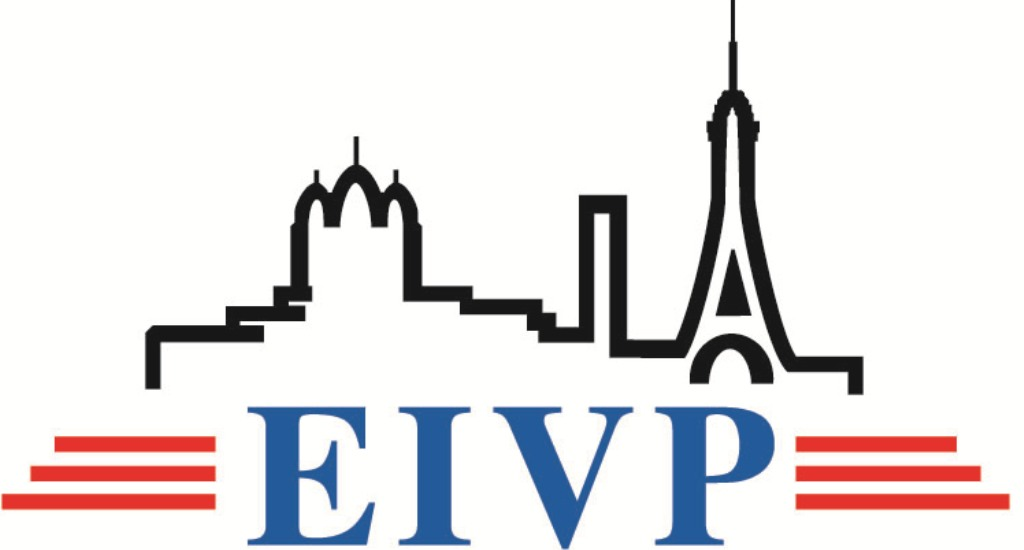
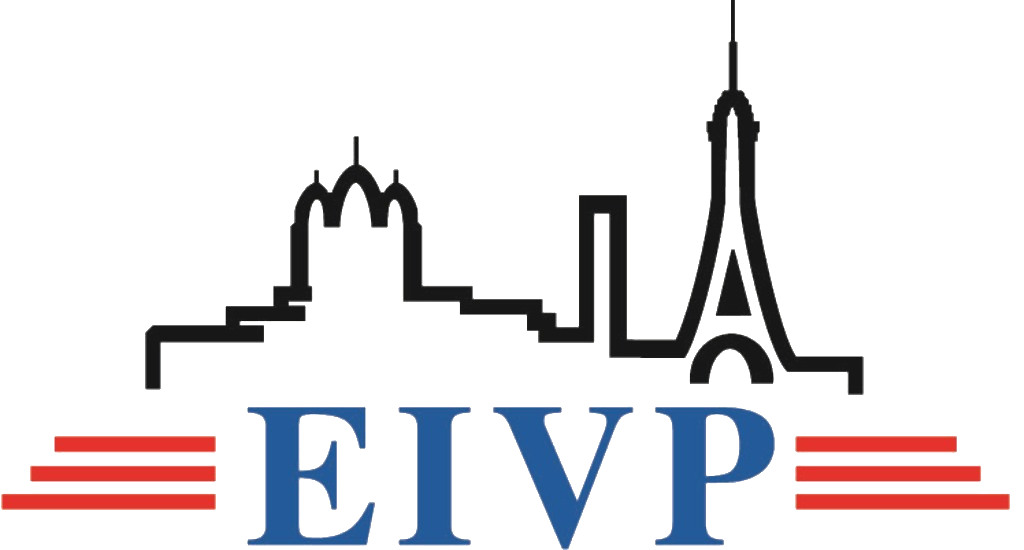
Images écoles + mignon sans fond blanc

Changed region(s): [[0.0312, 0.8345, 0.2188, 0.8655], [0.7812, 0.8345, 0.9375, 0.8655], [0.4062, 0.9891, 0.4688, 1.0]]

diff --git a/_includes/licences/licences-content.html b/_includes/licences/licences-content.html
@@ -56,7 +56,7 @@
     <p id="detail_code_site">Ce site, 100% maison, a été développé par l'association Pouce d'Or.<br/>
       Le site, l'ensemble de ses contenus et ses codes sources sont donc propriété du Pouce d'Or.
       Aucun droit de reproduction, distribution, modification, sous-license ou d'utilisation commerciale sans son accord. <br/>
-      N'hésitez cependant pas à <a mailto="staff@poucedor.fr"> nous contacter</a> pour toute demande particulière.</p>
+      N'hésitez cependant pas à <a href="mailto:staff@poucedor.fr"> nous contacter</a> pour toute demande particulière.</p>
 
   </div>
 
@@ -71,7 +71,7 @@
       sont exclusivement utilisées pour le bon déroulement de l'événement Pouce d'Or.<br/>
       Conformément aux dispositions de la loi Informatique et Libertés du 6 Janvier 1978, vous disposez
       d’un droit d’accès, de modification, de rectification et de suppression des données qui vous concernent.<br/>
-      <a mailto="staff@poucedor.fr">Contactez-nous</a> afin d'exercer ce droit.</p>
+      <a href="mailto:staff@poucedor.fr">Contactez-nous</a> afin d'exercer ce droit.</p>
 
   </div>
 

diff --git a/_includes/index/signup.html b/_includes/index/signup.html
@@ -52,7 +52,7 @@
 		</form>
 	</div>
 	<div class="right-align">
-		<a class="waves-effect waves-light btn" id="pre_signup_btn" href="#">En développement</a> <!-- Remplacer par #modal1 -->
+		<a class="waves-effect waves-light btn" id="pre_signup_btn" href="">En développement</a> <!-- Remplacer par #modal1 -->
 	</div>
 
 	{% include signup_modal_form.html %}

diff --git a/_includes/association/presentation_association.html b/_includes/association/presentation_association.html
@@ -89,7 +89,7 @@
 		</ul>
 </div>
 <div class="col m4">
-	<img src="assets/img/remerciements.jpeg" class="responsive-img" alt="Minion heureux"/>
+	<img src="assets/img/remerciements.png" class="responsive-img" alt="Minion heureux"/>
 </div>
 <div class="col m12">
 	<ul>
